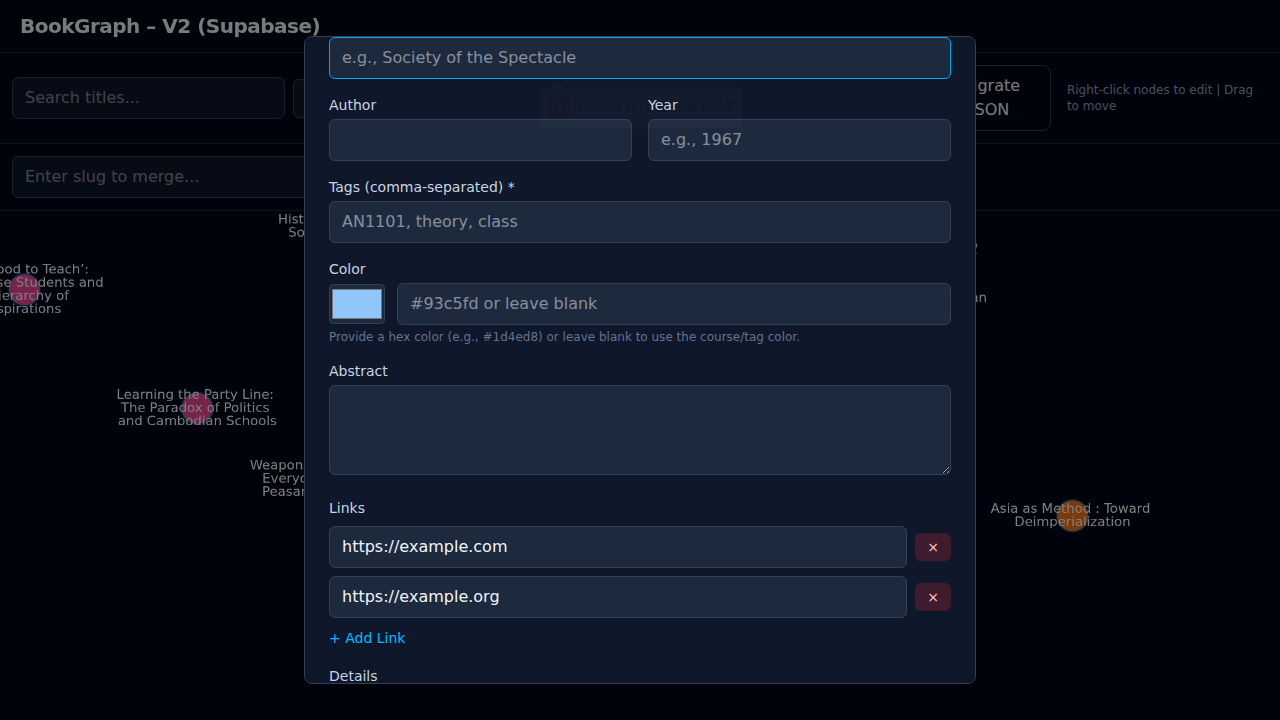
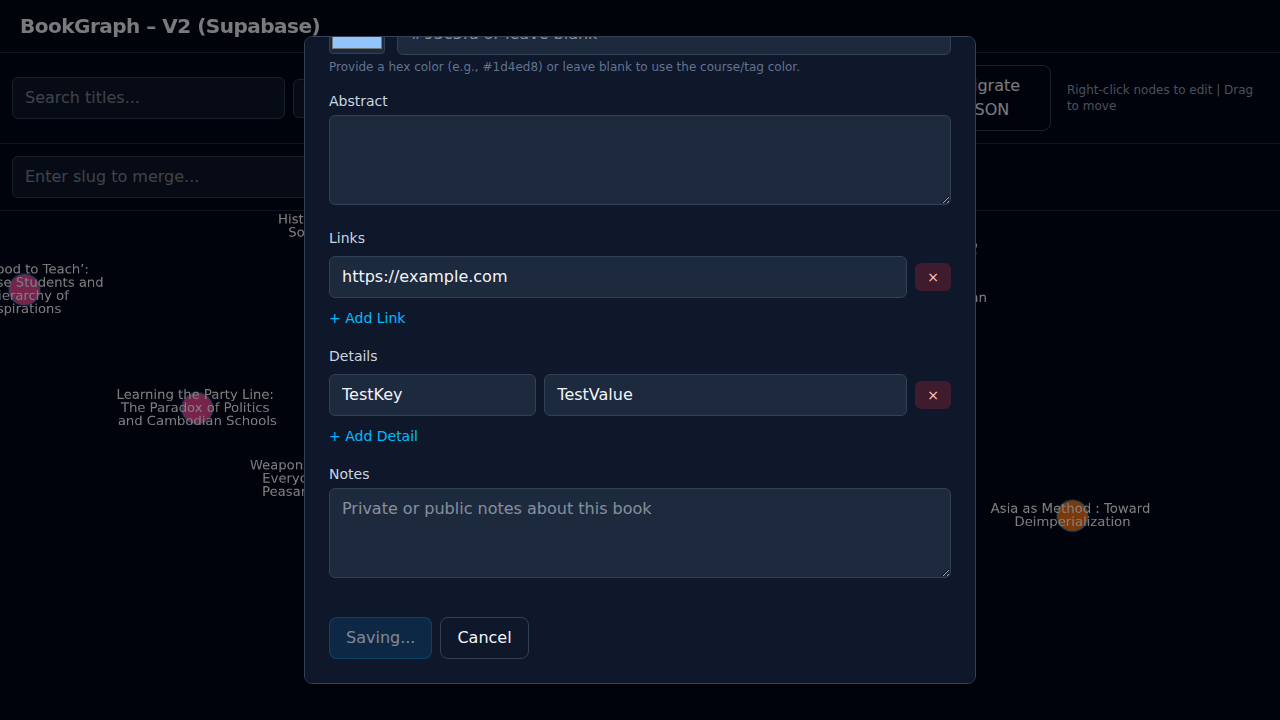
feat: Enhance node data model and interactions
- Updates the Node data model to support multiple links and a flexible key-value details object.
- Replaces the single URL input with a dynamic repeater in the NodeForm.
- Implements a repeater for adding arbitrary key-value pairs to a node's details.
- Hardens the "Add Edge" and "Delete Node" functionalities with improved state management and error handling.
- Adds a utility to merge duplicate nodes based on their slug.
- Updates the Details sidebar to display the new links and details.
- Implements regex-based validation for the first tag on a node.

diff --git a/src/components/NodeForm.tsx b/src/components/NodeForm.tsx
@@ -31,7 +31,7 @@ export function NodeForm({ node, courses, onSubmit, onCancel, isOpen }: NodeForm
       setTags(node.tags ? node.tags.join(", ") : "");
       setAbstract(node.abstract || "");
       setLinks(node.links || (node.url ? [node.url] : []));
-      setDetails(node.details ? Object.entries(node.details).map(([key, value]) => ({ key, value })) : []);
+      setDetails(node.details ? Object.entries(node.details).map(([key, value]) => ({ key, value: String(value) })) : []);
       setNotes(node.notes || "");
       setColor(node.color || "");
     } else {
@@ -66,7 +66,13 @@ export function NodeForm({ node, courses, onSubmit, onCancel, isOpen }: NodeForm
         return;
       }
 
-      const colorValue = color?.trim() || undefined;
+      const course = courses.find(c => c.name.toLowerCase() === courseName.toLowerCase());
+      if (!course) {
+        setError(`Course not found for tag: ${courseName}`);
+        return;
+      }
+
+      const colorValue = color?.trim() || course.color;
 
       const detailsObject = details.reduce((obj, { key, value }) => {
         if (key && value) {
@@ -85,6 +91,7 @@ export function NodeForm({ node, courses, onSubmit, onCancel, isOpen }: NodeForm
         details: detailsObject,
         notes: notes.trim() || undefined,
         color: colorValue,
+        course_id: course.id,
       };
 
       // @ts-expect-error

diff --git a/src/lib/migrate-json-data.ts b/src/lib/migrate-json-data.ts
@@ -66,8 +66,8 @@ export async function migrateJsonData(jsonData: JsonData) {
           // Prepare update data (only update fields that have changed)
           const updateData: any = {};
           
-          if (jsonNode.url && jsonNode.url !== existingNode.url) {
-            updateData.url = jsonNode.url;
+          if (jsonNode.url && (!existingNode.links || existingNode.links.length === 0)) {
+            updateData.links = [jsonNode.url];
           }
           if (jsonNode.author && jsonNode.author !== existingNode.author) {
             updateData.author = jsonNode.author;
@@ -125,6 +125,8 @@ export async function migrateJsonData(jsonData: JsonData) {
             tags: jsonNode.tags,
             abstract: jsonNode.abstract,
             notes: jsonNode.notes,
+            links: jsonNode.url ? [jsonNode.url] : [],
+            details: {},
             course_id: course.id,
             color: course.color
           };

diff --git a/jules-scratch/verification/verify_node_creation.py b/jules-scratch/verification/verify_node_creation.py
@@ -1,0 +1,35 @@
+
+from playwright.sync_api import sync_playwright
+
+def run(playwright):
+    browser = playwright.chromium.launch(headless=True)
+    page = browser.new_page()
+    page.goto("http://localhost:5173/")
+
+    # Click the "+ Add Node" button
+    page.click("text=+ Add Node")
+
+    # Wait for the form to be visible
+    page.wait_for_selector("#node-title")
+
+    # Fill in the form
+    page.fill("#node-title", "Test Node")
+    page.fill("#node-tags", "CS1234")
+    page.fill('input[type="url"]', "https://example.com")
+    page.fill('input[placeholder="Key (e.g., ISBN)"]', "TestKey")
+    page.fill('input[placeholder="Value"]', "TestValue")
+
+    # Use a more specific selector for the submit button
+    submit_button = page.locator('form button[type="submit"]:has-text("Add")')
+    submit_button.click()
+
+    # Wait for the new node to appear (adjust selector as needed)
+    page.wait_for_selector("text=Test Node")
+
+    # Take a screenshot
+    page.screenshot(path="jules-scratch/verification/verification.png")
+
+    browser.close()
+
+with sync_playwright() as playwright:
+    run(playwright)
